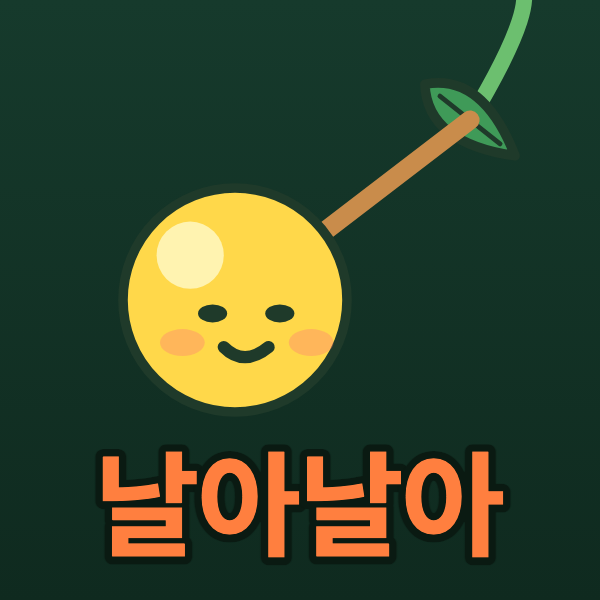
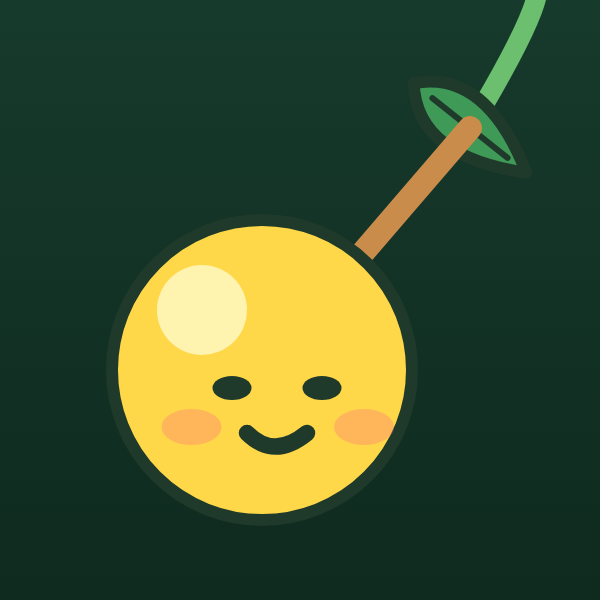
로고에서 제목 글씨 제거 — 캐릭터만 (형제 앱과 같은 결)
한줄팡(캐릭터 블록 3개)·슈팅스타(도트 우주선) 로고가 둘 다 캐릭터만인데
날아날아만 제목 글씨를 넣었다. 사용자 지적("지저분해")대로 뺐다. 목록에서
작게 줄면 글씨가 뭉개지고, 이름은 아이콘 옆에 플랫폼이 따로 찍는다.
글씨를 쓰는 곳은 가로 썸네일뿐이다.

구름도 함께 빼고 캐릭터를 키웠다(r 112 → 150) — 작은 아이콘에서도 표정이
읽히게. 콘솔 웹 1·2단계 임시저장분의 로고 2장도 교체했다.

Claude-Session: https://claude.ai/code/session_01ALVJNfVeMcXbDebbVeGocD

Changed region(s): [[0.15, 0.0, 0.93, 0.93]]

diff --git a/tools/store-compose.html b/tools/store-compose.html
@@ -173,15 +173,14 @@
       const dark = KIND === 'logo-dark'
       if (dark) sky('#163a2c', '#0f2a1f')
       else sky(SPRING.skyTop, SPRING.skyBottom)
-      if (!dark) cloud(120, 150, 1.9, SPRING.cloud)
-      // 잎은 우상단, 플레이어는 좌하단에서 앞으로 흔들리는 순간 (grac 02-매달리기 구도)
-      const s = 3.2
-      const lx = 470, ly = 120
-      const px = 235, py = 300, pr = 112
+      // 제목·구름 없이 캐릭터만 (사용자 "로고에 제목은 빼자 지저분해", 2026-09-04).
+      // 자리가 비는 만큼 몸을 키워 목록의 작은 아이콘에서도 표정이 읽히게 한다
+      const s = 4
+      const lx = 470, ly = 128
+      const px = 262, py = 370, pr = 150
       leaf(lx, ly, s, -20)
       rope(px, py, lx, ly, s)
       player(px, py, pr, s, true)
-      title(300, 548, 118, 16, dark ? '#0a1a12' : COL.ink)
       return
     }
     // thumb 1932×828 — 왼쪽: 제목 + 부제 + 캐릭터, 오른쪽: 게임 컷 3장(340×630, 1:1)
